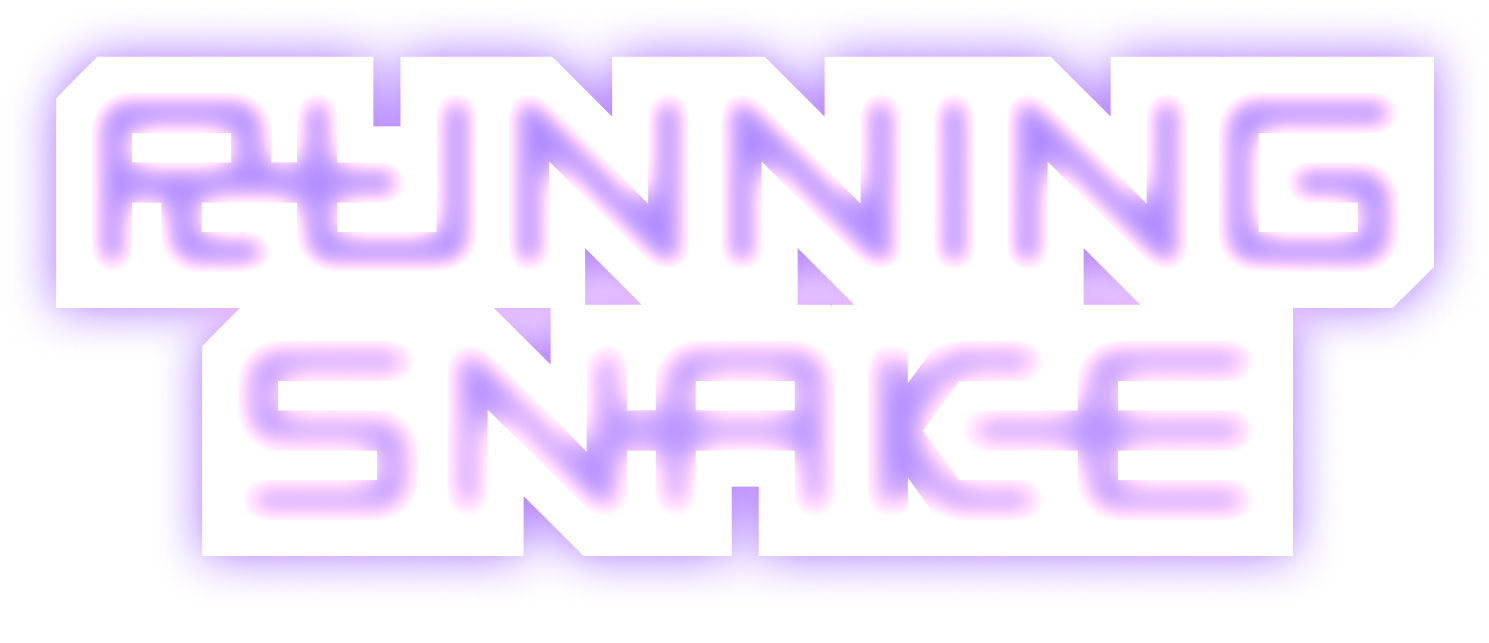
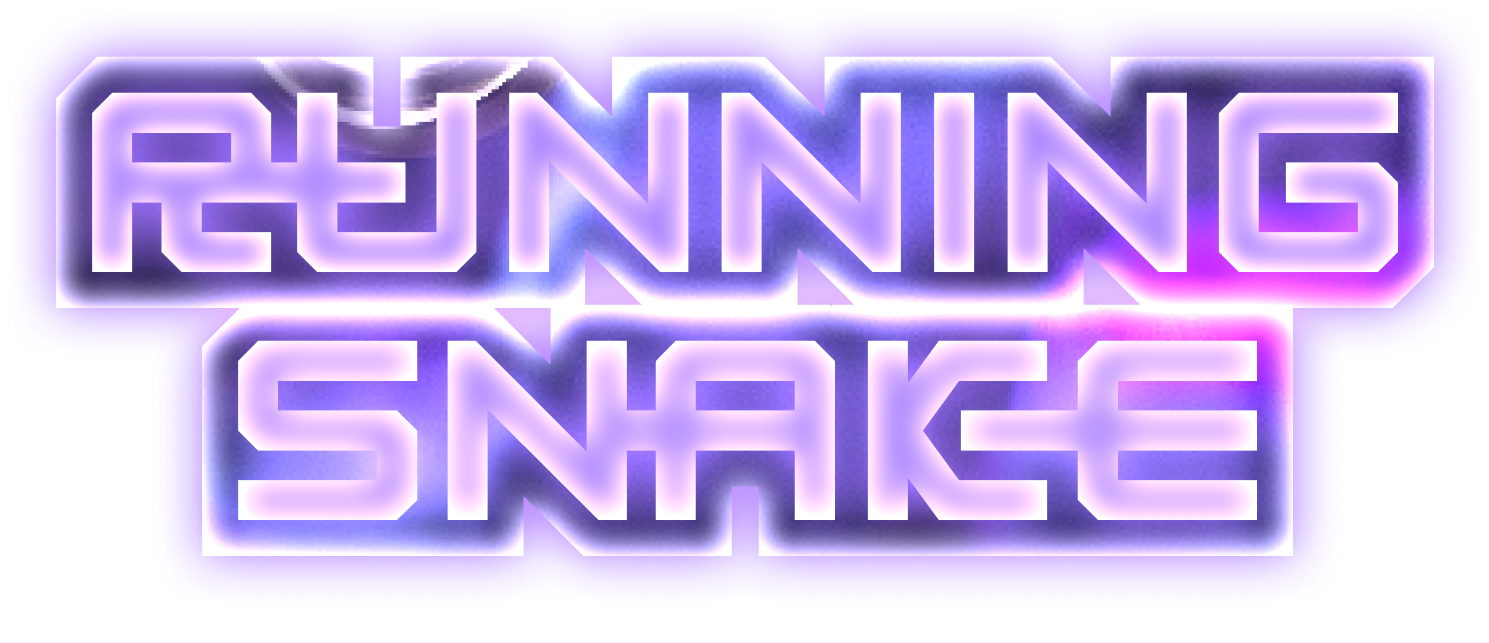
loader

diff --git a/src/components/LoaderScreen.vue b/src/components/LoaderScreen.vue
@@ -2,9 +2,9 @@
   <div class="loader-screen">
     <div class="loader-screen__spinner"></div>
     <div class="loader-screen__loading-text">{{ t('loader.loading') }}</div>
-    <p class="loader-screen__text">{{ t('loader.running') }}</p>
-    <p class="loader-screen__text">{{ t('loader.snake') }}</p>
-    <!-- <img src="@/assets/loader-text.png" alt="Logo" class="loader-screen__logo" /> -->
+    <!-- <p class="loader-screen__text">{{ t('loader.running') }}</p>
+    <p class="loader-screen__text">{{ t('loader.snake') }}</p> -->
+    <img src="@/assets/loader-text.png" alt="Logo" class="loader-screen__logo" />
     <div class="loader-screen__socials">
       <a href="https://t.me/" target="_blank" class="loader-screen__social-link">
         <img src="@/assets/social/telegram.svg" alt="Telegram" />
@@ -52,15 +52,9 @@ const { t } = useI18n()
     animation: rotation 1s linear infinite;
   }
 
-  &__loading-text {
-    font-family: Montserrat;
-    font-size: 16px;
-    font-weight: 700;
-    line-height: 24px;
-    text-align: center;
-    text-underline-position: from-font;
-    text-decoration-skip-ink: none;
-
+  &__logo {
+    width: 90%;
+    // max-width: 334px;
     margin-bottom: 14px;
     animation: fadeIn 0.5s ease-in;
   }
